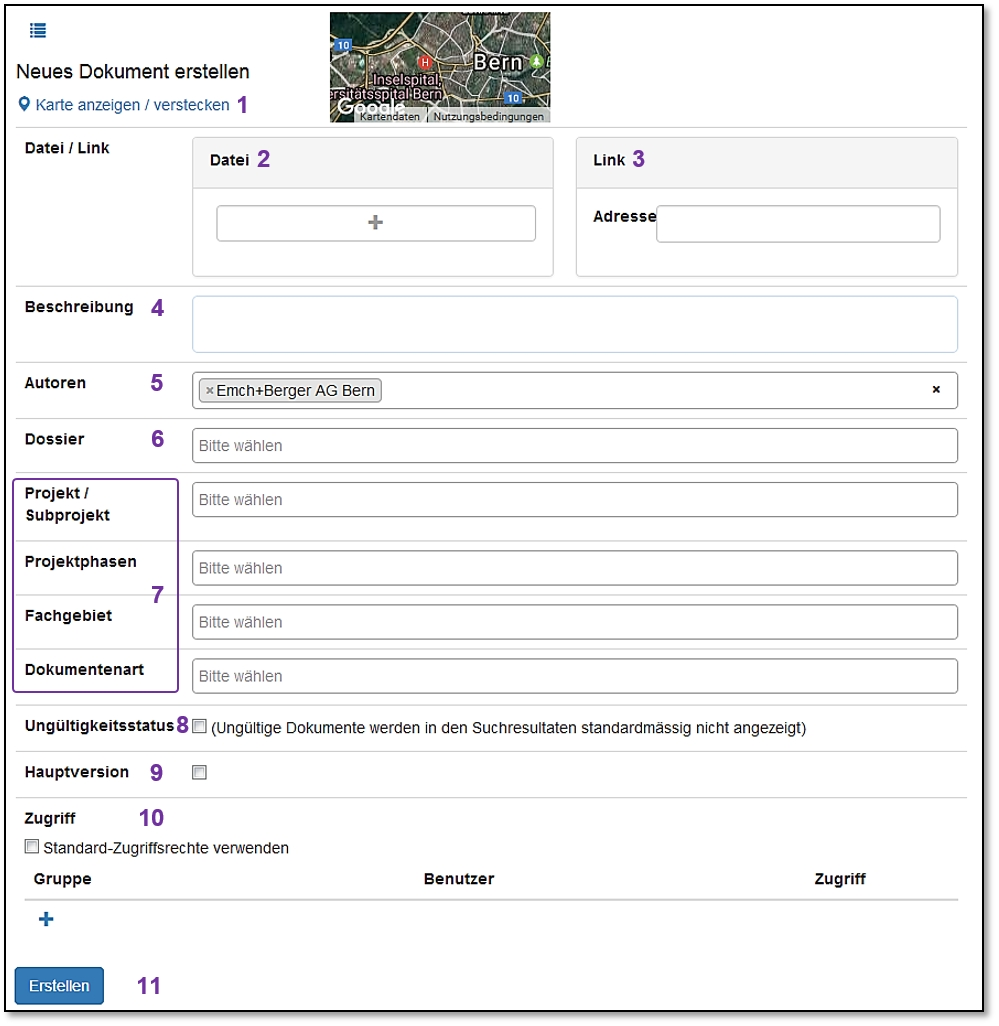
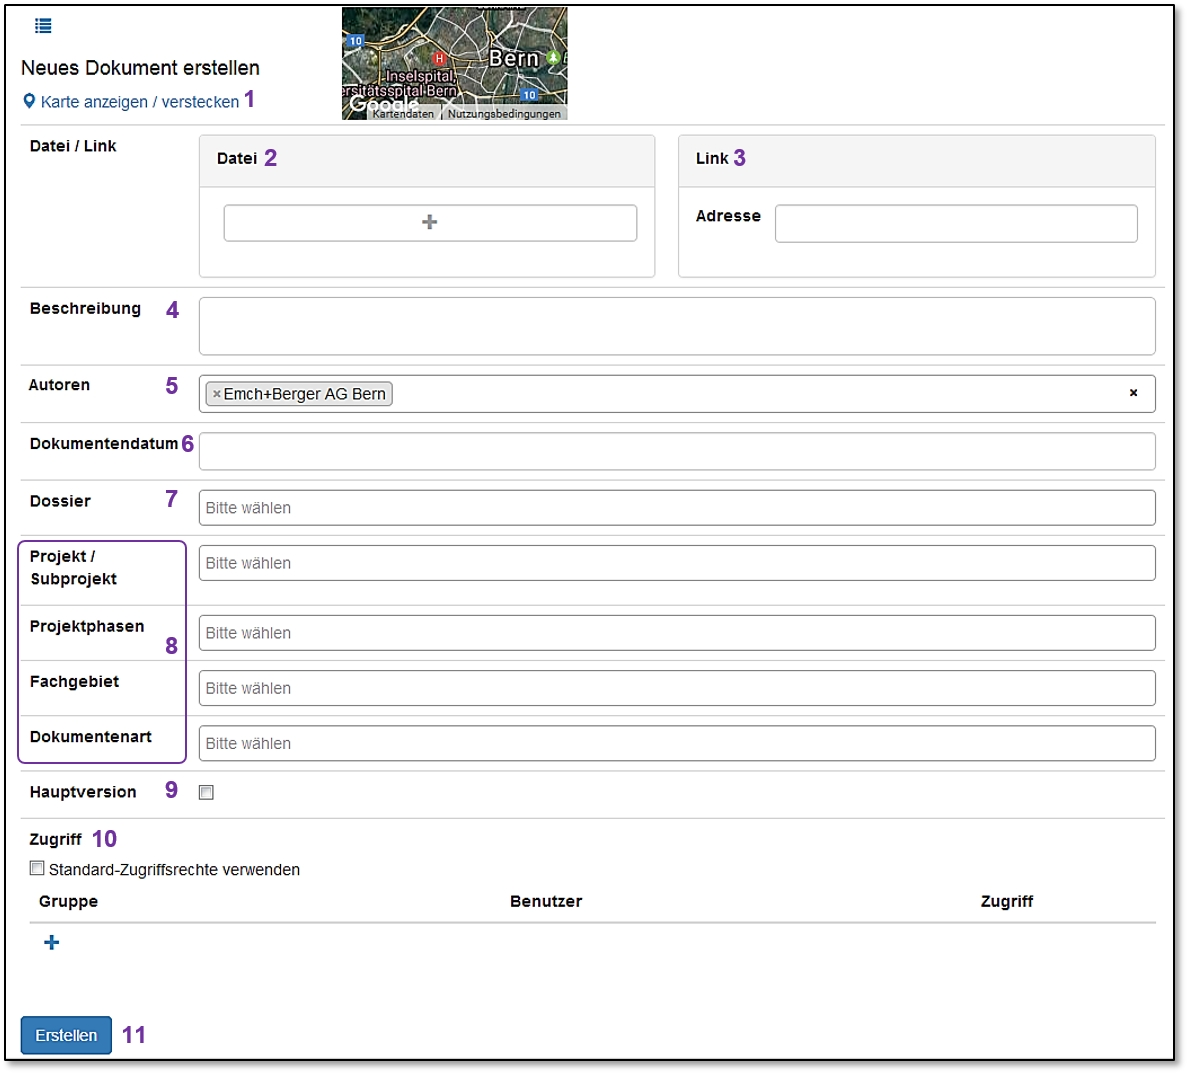
[german] Anpassungen DokWesen V2.5
Kap 9.2 bis knapp 9.2.4

diff --git a/german/chapters/11_Dokumentenablage/11_Dokumentenablage.tex b/german/chapters/11_Dokumentenablage/11_Dokumentenablage.tex
@@ -193,12 +193,10 @@ Haben Sie die gewünschten Einstellungen gemacht, geben Sie einen Filtertitel ei
 % \label{fig:speciation}
 \end{figure}
 
-%% bishierher
-
 Klicken Sie auf das Plussymbol \includegraphics[height=12pt]{/Icons/Plussymbol.jpg} \col{(1)}. Die Eingabemaske für ein neues Dokument erscheint:
 
 \begin{figure}[H]
-\center{\includegraphics[width=1\linewidth]{../chapters/11_Dokumentenablage/pictures/11-2-2_NeuesDokuErstellen.jpg}}
+\center{\includegraphics[width=1\linewidth]{../chapters/11_Dokumentenablage/pictures/11-2-2_NeuesDokuErstellen_A.jpg}}
 \caption{Eingabemaske für ein neues Dokument}
 % \label{fig:speciation}
 \end{figure}
@@ -239,13 +237,21 @@ Sollten Sie einen fehlerhaften Link eintragen, erscheint folgende Fehlermeldung:
 
 Haben Sie ein Dokument hochgeladen oder einen Internet-Link verknüpft, können Sie nun die weiteren Felder ausfüllen:
 
+\begin{figure}[H]
+\center{\includegraphics[width=1\linewidth]{../chapters/11_Dokumentenablage/pictures/11-2-2_NeuesDokuErstellen_B.jpg}}
+\caption{Eingabemaske für ein neues Dokument}
+% \label{fig:speciation}
+\end{figure}
+
 \vspace{\baselineskip}
 
-In der Beschreibung \col{(4)} können Sie ergänzende Notizen hinterlegen. Unter Autoren \col{(5)} können Sie mittels Dropdown-Menü die Autoren auswählen. Ein Autor muss vorher erfasst worden sein. Falls ein Autor in der Liste fehlt, kann er durch den Administrator/zentrale Stelle angepasst werden. Soll das Dokument einem Dossier (siehe Kapitel \ref{bkm:Ref442544219}) zugeordnet werden, kann dieses mit dem Dropdown-Menü \col{(6)} ausgewählt werden (Ein Dossier muss zuvor erstellt worden sein). Ein Dokument kann mehreren Dossiers zugeordnet werden. Klicken Sie erneut ins Dropdown-Menü, um das Dokument weiteren Dossiers zuzuordnen. Es können 'Tags' \col{(7)} definiert werden, welche dann einem Dokument zugeordnet werden können. So ist es später möglich, nach bestimmten 'Tags' zu suchen und auf diese Weise Dokumente bestimmter Projekte, Projektphasen, Fachgebiete oder Dokumentenarten zu finden. Tag-Themen (z.B. Fachgebiet) wie auch die einzelnen Tags (z.B. Bahnübergänge, Beleuchtung, Betrieb etc. können nur durch den Administrator (zentrale Stelle) angepasst resp. ergänzt werden. Fehlt etwas, nehmen Sie bitte mit der entsprechenden Stelle Kontakt auf). \newline
+In der Beschreibung \col{(4)} können Sie ergänzende Notizen hinterlegen. Unter Autoren \col{(5)} können Sie mittels Dropdown-Menü die Autoren auswählen. Ein Autor muss vorher erfasst worden sein. Falls ein Autor in der Liste fehlt, kann er durch den Administrator/zentrale Stelle angepasst werden. Geben Sie optional ein Dokumentendatum an \col{(6)}. Soll das Dokument einem Dossier (siehe Kapitel \ref{bkm:Ref442544219}) zugeordnet werden, kann dieses mit dem Dropdown-Menü \col{(7)} ausgewählt werden (Ein Dossier muss zuvor erstellt worden sein). Ein Dokument kann mehreren Dossiers zugeordnet werden. Klicken Sie erneut ins Dropdown-Menü, um das Dokument weiteren Dossiers zuzuordnen. Es können 'Tags' \col{(8)} definiert werden, welche dann einem Dokument zugeordnet werden können. So ist es später möglich, nach bestimmten 'Tags' zu suchen und auf diese Weise Dokumente bestimmter Projekte, Projektphasen, Fachgebiete oder Dokumentenarten zu finden. Tag-Themen (z.B. Fachgebiet) wie auch die einzelnen Tags (z.B. Bahnübergänge, Beleuchtung, Betrieb etc. können nur durch den Administrator (zentrale Stelle) angepasst resp. ergänzt werden. Fehlt etwas, nehmen Sie bitte mit der entsprechenden Stelle Kontakt auf). \newline
 
-Für jedes hochgeladene Dokument wird ein eigener Eintrag, jedoch mit den gleichen Eingaben der Felder (Beschreibung, Autoren Dossier, etc), erstellt. Gerade für das Zusammenstellen eines Dossiers mit vielen Dokumenten und gleicher Beschreibung, gleichem Autor etc. ist diese Vorgehensweise zeitsparend. Hat ein Dokument seine Gültigkeit verloren, kann dies mit Setzen eines Häkchens \col{(8)} bei den Suchresultaten ausgeschlossen werden. Diese Funktion ist nicht zu verwechseln mit älteren Versionen eines Dokumentes, welche standardmässig bei Suchresultaten nicht angezeigt werden. \newline
+Für jedes hochgeladene Dokument wird ein eigener Eintrag, jedoch mit den gleichen Eingaben der Felder (Beschreibung, Autoren Dossier, etc), erstellt. Gerade für das Zusammenstellen eines Dossiers mit vielen Dokumenten und gleicher Beschreibung, gleichem Autor etc. ist diese Vorgehensweise zeitsparend. 
 
-Sie können definieren, ob es sich bei einem neu hochgeladenes Dokument um eine Hauptversion (V2, V3. etc.) oder eine Unterversion (V3.1, V3.2 etc.) handelt. Ist das neue Dokument eine Hauptversion setzen Sie das Häkchen bei 'Hauptversion' \col{(9)}. Für ein Dokument können Sie Standard-Zugriffsrechte vergeben \col{(10)} oder gezielt Personen berechtigen. Vergebene Zugriffsrechte können im Bearbeitenmodus später jederzeit wieder angepasst und ergänzt werden. In Kapitel \ref{bkm:Ref442869495} erfahren Sie mehr über die Handhabung der Zugriffsrechte.
+% Hat ein Dokument seine Gültigkeit verloren, kann dies mit Setzen eines Häkchens \col{(8)} bei den Suchresultaten ausgeschlossen werden. Diese Funktion ist nicht zu verwechseln mit älteren Versionen eines Dokumentes, welche standardmässig bei Suchresultaten nicht angezeigt werden. \newline
+
+Sie können definieren, ob es sich bei einem neu hochgeladenes Dokument um eine Hauptversion (V2, V3. etc.) oder eine Unterversion (V3.1, V3.2 etc.) handelt. Ist das neue Dokument eine Hauptversion setzen Sie das Häkchen bei 'Hauptversion' \col{(9)}. Für ein Dokument können Sie Standard-Zugriffsrechte vergeben \col{(10)} oder gezielt Personen berechtigen. Vergebene Zugriffsrechte können im Bearbeitenmodus später jederzeit wieder angepasst und ergänzt werden. In Kapitel \ref{bkm:Ref442869495} erfahren Sie mehr über die Handhabung der Zugriffsrechte. Damit ein Dokument erstellt werden kann, muss mindestens eine Person berechtigt werden (In der Regel der Erfasser des Dokumentes).
 
 Wurden alle nötigen Eingaben gemacht, wird das Dokument mit 'Erstellen' \col{(11)} hochgeladen und die Einträge gespeichert. \newline
 
@@ -322,6 +328,9 @@ Wenn Sie sich in der Dokumenten-Übersicht Google-Maps anzeigen lassen (klicken 
 
 \pagebreak
 \textbf{Dokumente nach geografischen Bereichen filtern:} \\
+
+
+%% bishierher
 
 \begin{wrapfigure}[9]{r}{7cm}
   \vspace{-35pt}
